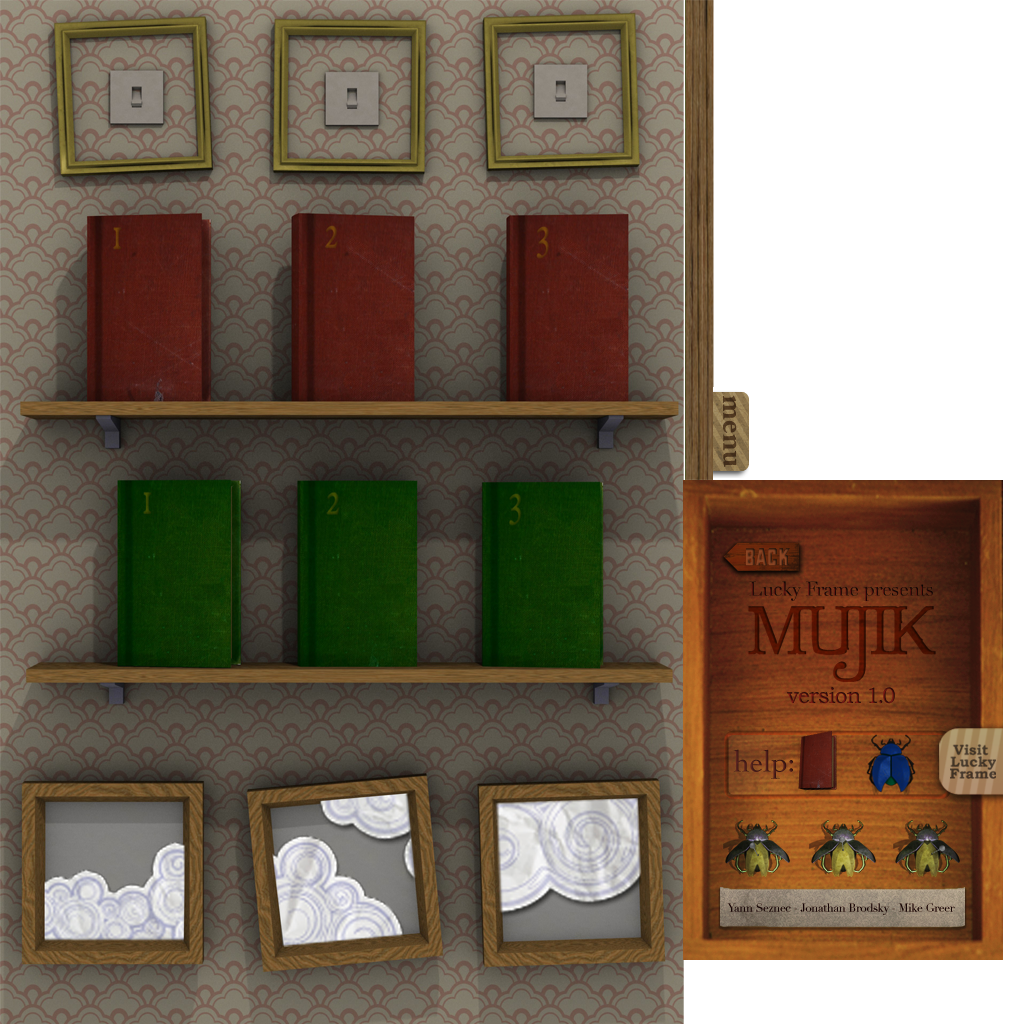
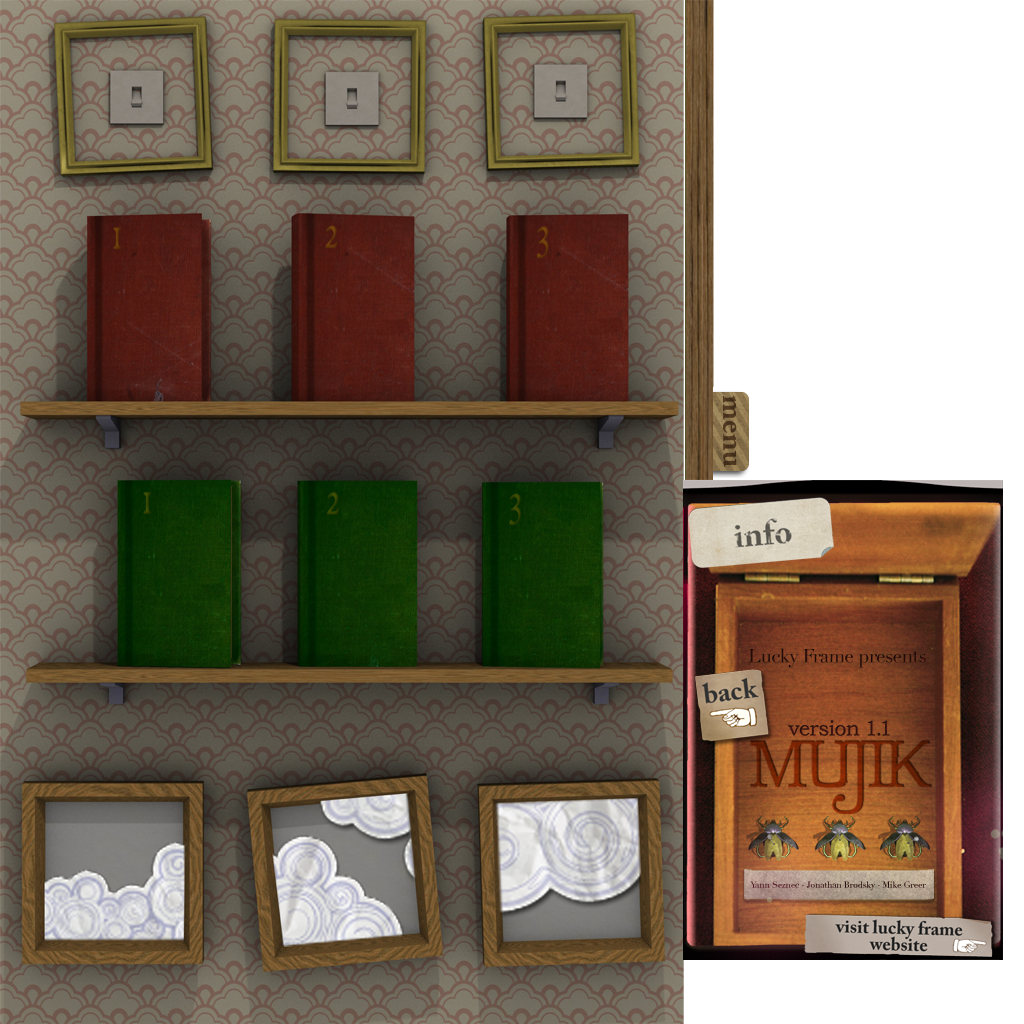
added the info screen

Changed region(s): [[0.6562, 0.4688, 1.0, 0.9375]]

diff --git a/src/controllers/infoController.mm b/src/controllers/infoController.mm
@@ -1,0 +1,44 @@
+//
+//  infoController.mm
+//  mujik
+//
+//  Created by jonbroFERrealz on 9/7/09.
+//  Copyright 2009 Heavy Ephemera Industries. All rights reserved.
+//
+
+#import "infoController.h"
+
+
+@implementation infoController
+-(id)init
+{
+	self = [super init];
+	
+	backButton = [[GLButton alloc] initWithFrame:CGRectMake(0, 177, 107, 99)];
+	backButton._delegate = self;
+	backButton.visible = false;
+	[self addSubview:backButton];
+
+	webButton = [[GLButton alloc] initWithFrame:CGRectMake(107, 420, 213, 60)];
+	webButton._delegate = self;
+	webButton.visible = false;
+	[self addSubview:webButton];
+	
+	return self;
+}
+-(void)buttonDidPress:(GLButton *)_button
+{
+	if(backButton == _button){
+		[[NSNotificationCenter defaultCenter]
+		 postNotificationName:@"switchToMenu" object:self];		
+	}
+	if(webButton == _button){
+		[[UIApplication sharedApplication] openURL:[NSURL URLWithString: @"http://www.luckyframe.co.uk"]];
+	}
+}	
+-(void)render
+{
+	wallHelper->drawRect(0, 0, 320, 480, 683, 480, 1);
+	[super render];
+}
+@end

diff --git a/src/controllers/mainController.h b/src/controllers/mainController.h
@@ -12,22 +12,26 @@
 #import "parentController.h"
 #import "menuController.h"
 #import "helpController.h"
+#import "infoController.h"
 
 @interface mainController : CustomEventResponder {
 	bankController *bankC;
 	parentController *parentC;
 	menuController *menuC;
 	helpController *helpC;
+	infoController *infoC;
 	CustomEventResponder *currentView;
 }
 @property (nonatomic, retain) bankController *bankC;
 @property (nonatomic, retain) parentController *parentC;
 @property (nonatomic, retain) menuController *menuC;
 @property (nonatomic, retain) helpController *helpC;
+@property (nonatomic, retain) infoController *infoC;
 
 -(void)switchToBank:(NSNotification *)notification;
 -(void)switchToMain:(NSNotification *)notification;
 -(void)switchToHelp:(NSNotification *)notification;
+-(void)switchToInfo:(NSNotification *)notification;
 -(void)initialStart;
 -(void)switchToMenu:(NSNotification *)notification;
 

diff --git a/src/controllers/mainController.mm b/src/controllers/mainController.mm
@@ -10,7 +10,7 @@
 
 
 @implementation mainController
-@synthesize parentC, bankC, menuC, helpC;
+@synthesize parentC, bankC, menuC, helpC, infoC;
 
 -(id)init
 {
@@ -27,6 +27,9 @@
 	[[NSNotificationCenter defaultCenter] addObserver:self
 											 selector:@selector(switchToHelp:)
 												 name:@"switchToHelp" object:nil];
+	[[NSNotificationCenter defaultCenter] addObserver:self
+											 selector:@selector(switchToInfo:)
+												 name:@"switchToInfo" object:nil];
 	
 	return self;
 }
@@ -52,6 +55,12 @@
 	[self removeSubview:currentView];
 	currentView = helpC;
 	[self addSubview:helpC];
+}
+-(void)switchToInfo:(NSNotification *)notification
+{
+	[self removeSubview:currentView];
+	currentView = infoC;
+	[self addSubview:infoC];
 }
 -(void)switchToMenu:(NSNotification *)notification
 {

diff --git a/src/controllers/menuController.mm b/src/controllers/menuController.mm
@@ -29,6 +29,11 @@
 	backButton.visible = false;
 	[self addSubview:backButton];
 	
+	infoButton = [[GLButton alloc] initWithFrame:CGRectMake(77, 316, 243, 68)];
+	infoButton._delegate = self;
+	infoButton.visible = false;
+	[self addSubview:infoButton];
+	
 	return self;
 }
 -(void)buttonDidPress:(GLButton *)_button
@@ -40,6 +45,10 @@
 	if(helpButton == _button){
 		[[NSNotificationCenter defaultCenter]
 		 postNotificationName:@"switchToHelp" object:self];		
+	}
+	if(infoButton == _button){
+		[[NSNotificationCenter defaultCenter]
+		 postNotificationName:@"switchToInfo" object:self];		
 	}
 	if(backButton == _button){
 		[[NSNotificationCenter defaultCenter]

diff --git a/src/controllers/infoController.h b/src/controllers/infoController.h
@@ -1,0 +1,20 @@
+//
+//  infoController.h
+//  mujik
+//
+//  Created by jonbroFERrealz on 9/7/09.
+//  Copyright 2009 Heavy Ephemera Industries. All rights reserved.
+//
+
+#import <Foundation/Foundation.h>
+#import "CustomEventResponder.h"
+#import "GLButton.h"
+#import "ofMain.h"
+#import "wallFolderHelper.h"
+#import "globals.h"
+
+@interface infoController : CustomEventResponder <GLButtonDelegate> {
+	GLButton *webButton, *backButton;
+}
+
+@end

diff --git a/src/testApp.h b/src/testApp.h
@@ -13,6 +13,7 @@
 #import "Events.h"
 #import "menuController.h"
 #import "helpController.h"
+#import "infoController.h"
 
 class testApp : public ofSimpleApp, public ofxMultiTouchListener {
 	
@@ -47,6 +48,7 @@ public:
 	gridControllerHelper *gcHelper;
 	parentModel *pModel;
 	mainController *mainC;
+	infoController *infoC;
 	NSMutableArray *instrumentGroup;
 	ofImage belt;
 	bool			imageCount;

diff --git a/src/testApp.mm b/src/testApp.mm
@@ -64,7 +64,8 @@ void testApp::setup(){
 
 	menuC = [[menuController alloc]initWithFrame:CGRectMake(0, 0, 320, 480)];
 	mainC.menuC = menuC;
-
+	infoC = [[infoController alloc]initWithFrame:CGRectMake(0, 0, 320, 480)];
+	mainC.infoC = infoC;
 	helpC = [[helpController alloc]initWithFrame:CGRectMake(0, 0, 320, 480)];
 	mainC.helpC = helpC;
 	

diff --git a/src/controllers/menuController.h b/src/controllers/menuController.h
@@ -15,7 +15,7 @@
 
 @interface menuController : CustomEventResponder <GLButtonDelegate> {
 	// do I even need to maintain any kind of state here? I don't think so...
-	GLButton *bankButton, *helpButton, *backButton;
+	GLButton *bankButton, *helpButton, *infoButton, *backButton;
 }
 
 @end
